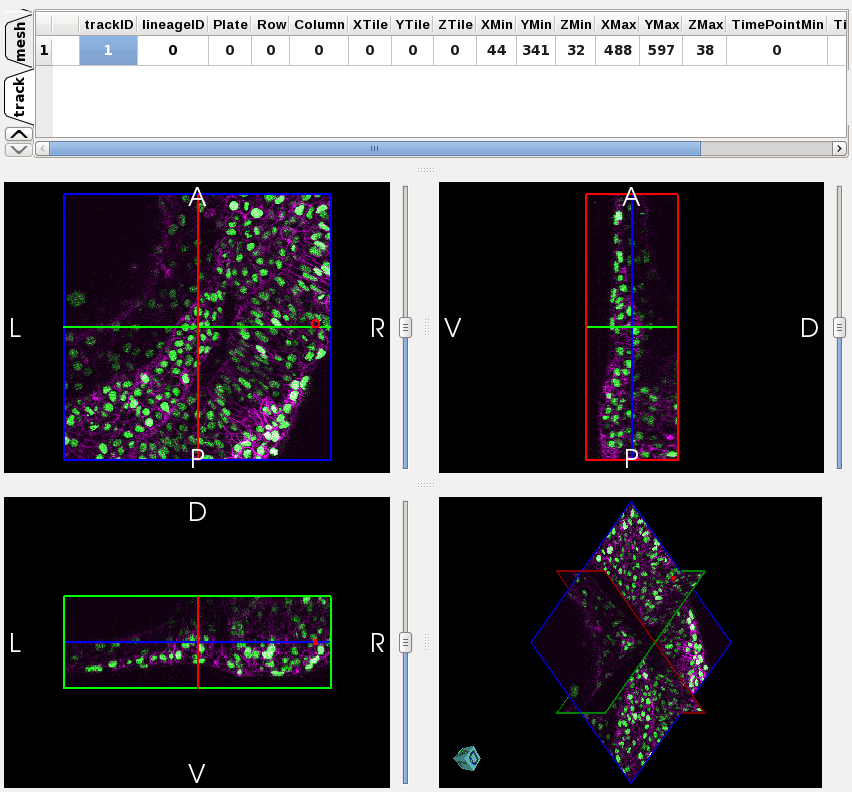
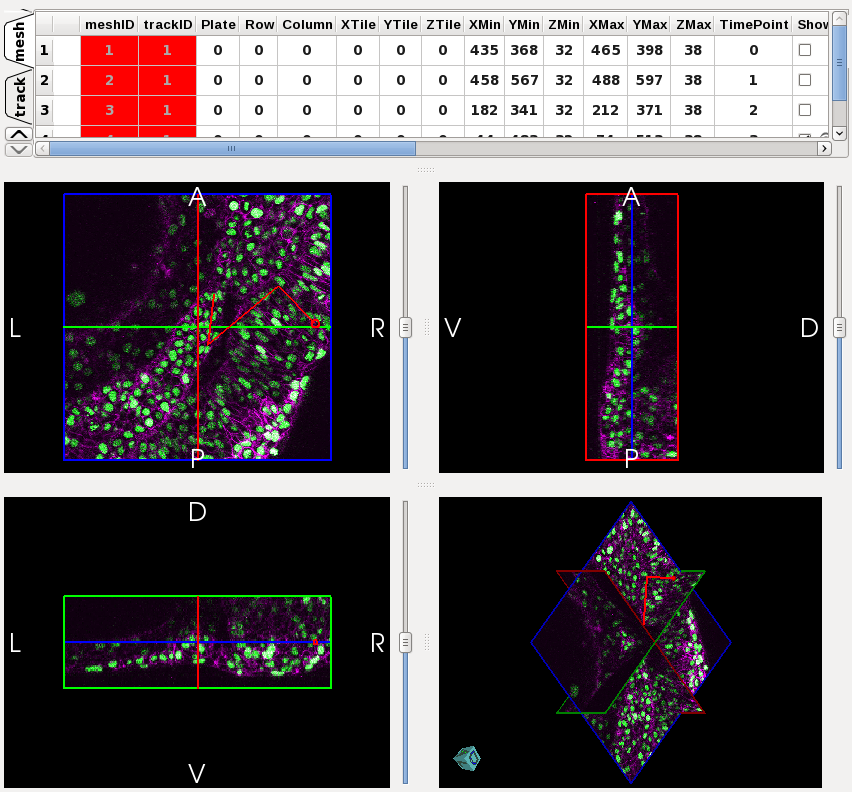
Import test works and compares images of before and after. BUG:  Showing track lines BUG:  crashes when exit image session

diff --git a/Testing/Sikuli/ImportTracks.sikuli/ImportTracks.html b/Testing/Sikuli/ImportTracks.sikuli/ImportTracks.html
@@ -129,7 +129,7 @@ keyUp(Key.CTRL)
 <span class="skw">click</span>(<img src="WhiteArrowIcon.png" />)
 <span class="skw">click</span>(<img src="TableWidgetIcon.png" />)
 <span class="skw">click</span>(<img src="MeshSegmentationIcon.png" />)
-
+<span class="skw">wait</span>(<span class="dig">2</span>)
 <span class="cmt">#compare before image in gofigureimage folder to after image taken here
 </span><span class="cmt">#reg = find(Pattern("roughQuadViewRectangle.png").similar(0.30))
 </span><span class="cmt">#this should find a rough 30% image and just get the coordinates and then take real image below
@@ -155,7 +155,7 @@ shutil.copy2(quadview_image_AFTER,address+<img src="/quadview_image_AFTER.png" /
 
 <span class="kw">print</span> <span class="str">"copied image"</span>
 
-<span class="skw">find</span>(<img src="quadview_image_BEFORE.png" />).similar(<span class="dig">.50</span>)
+<span class="skw">find</span>(Pattern(<img src="quadview_image_BEFORE.png" />).similar(<span class="dig">.95</span>))
 
 
 <span class="cmt">#open GF

diff --git a/Testing/Sikuli/ImportTracks.sikuli/ImportTracks.py b/Testing/Sikuli/ImportTracks.sikuli/ImportTracks.py
@@ -57,7 +57,7 @@ click("TableWidgetIcon.png")
 click("WhiteArrowIcon.png")
 click("TableWidgetIcon.png")
 click("MeshSegmentationIcon.png")
-
+wait(2)
 #compare before image in gofigureimage folder to after image taken here
 #reg = find(Pattern("roughQuadViewRectangle.png").similar(0.30))
 #this should find a rough 30% image and just get the coordinates and then take real image below
@@ -83,7 +83,7 @@ shutil.copy2(quadview_image_AFTER,address+"/quadview_image_AFTER.png")
 
 print "copied image"
 
-find("quadview_image_BEFORE.png").similar(.50)
+find(Pattern("quadview_image_BEFORE.png").similar(.95))
 
 
 #open GF
